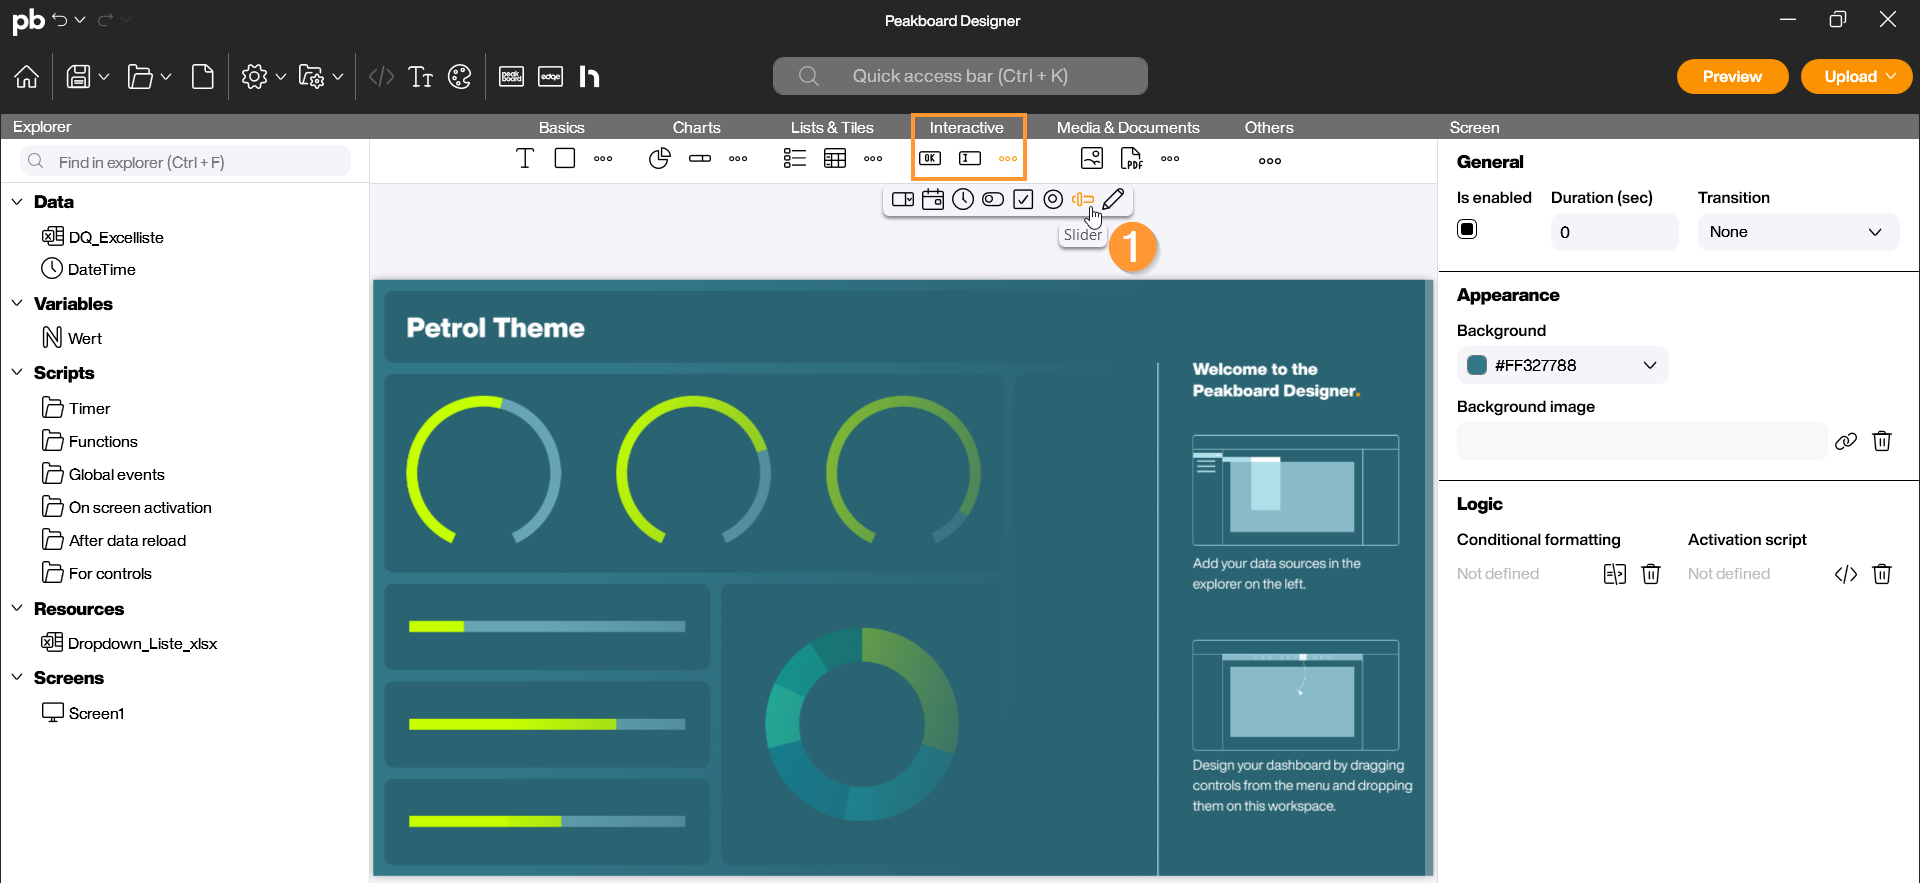
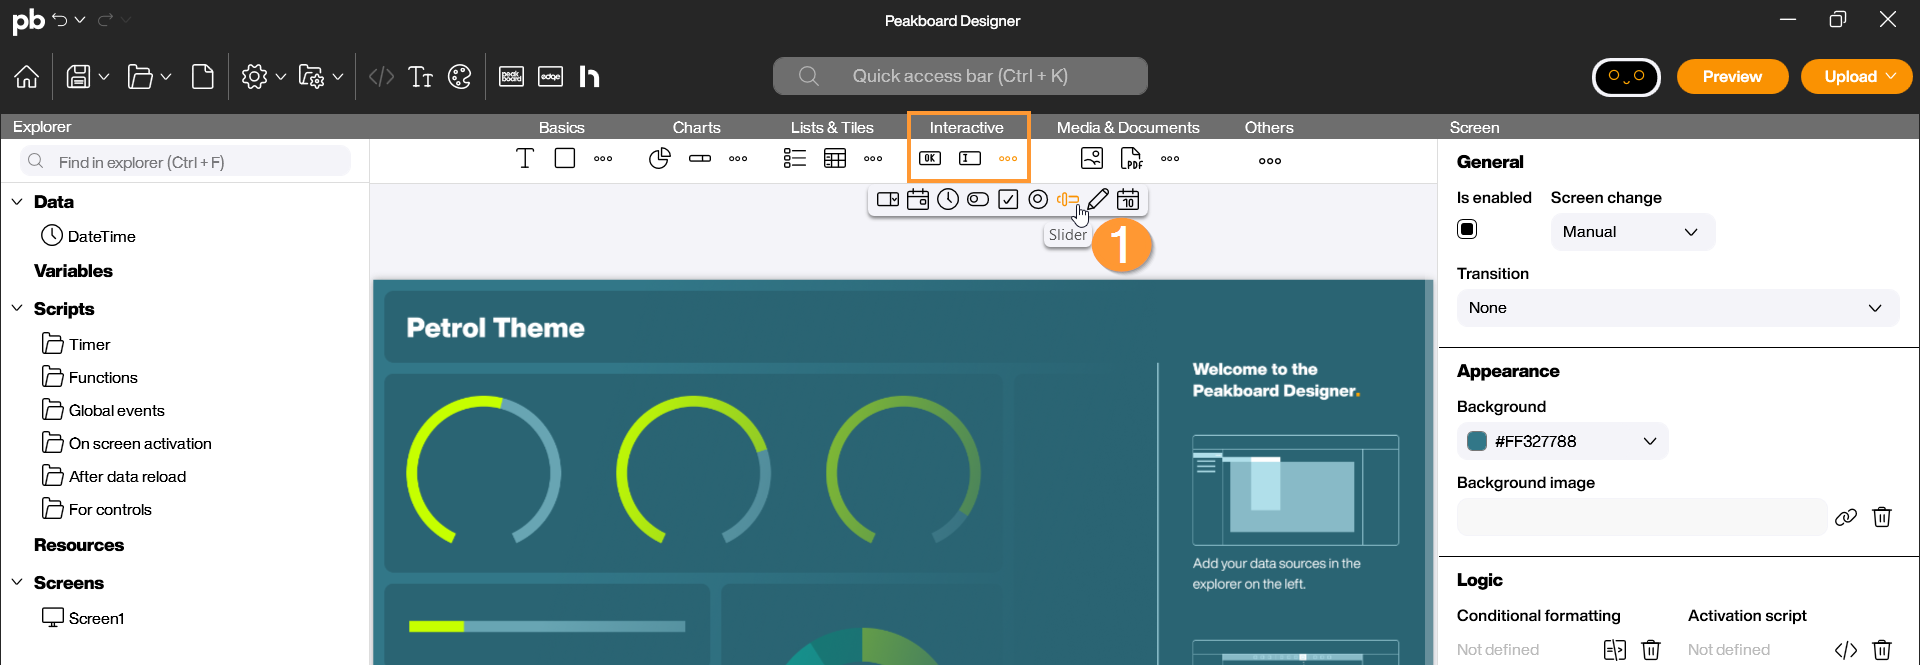
de/en general content updates for input controls

diff --git a/content/_controls/Input/de-slider.md b/content/_controls/Input/de-slider.md
@@ -21,19 +21,8 @@ Damit der Slider korrekt funktioniert, musst du seinen Arbeitsbereich festlegen.
 * Datenquelle / Variable: Verknüpfe den Slider mit einer Variablen vom Typ Zahl (Number). Jede Bewegung des Reglers schreibt den aktuellen Wert sofort in diese Variable zurück (1)
 * Initialer Wert: Lege fest, auf welcher Position der Regler beim Start der Visualisierung stehen soll. Diesen Wert stellst Du idealerweise in der verknüpften Variable ein (2)
 * Minimum / Maximum (Daten): Definiere den Start- und Endpunkt der Skala. z. B. 0 bis 10 (3).
-
+* Label (Daten): Vergebe deinem Schieberegler eine individuelle Bezeichnung.
 ![image_2](/assets/images/Controls/Slider/slider02.png)
-
-## 2 Aussehen und Beschriftung
-In den Eigenschaften auf der rechten Seite kannst du das Design und die Haptik des Sliders verfeinern:
-1. Label (Daten): Vergebe deinem Schieberegler eine individuelle Bezeichnung (1)
-2. Schriftart & Orientierung (Aussehen): Wähle die Schriftart der Bezeichnung und zwischen einer horizontalen oder vertikalen Ausrichtung des Reglers (2).
-3. Wert-Position & Wert-Schriftart (Wert): Verdeutliche den eingestellten Wert des Reglers in deiner Anzeige und bearbeite die Schriftart des angegebenen Wertes (3).
-4. Schieber & Balken (Aussehen): Passe die Farben und Größe des Regler-Knopfes und der Schiene an dein Dashboard-Design an (4).
-5. Skalendarstellung (Skala): Wähle, ob und in welcher Farbe und Häufigkeit eine gestrichelte Skala an dem Regler dargestellt werden soll (5).
-6. In Skripten verwenden (Logik): Gib dem Control einen eindeutigen Namen, um es später im Scripting identifizieren zu können (6).
-
-![image_3](/assets/images/Controls/Slider/slider03.png)
 
 # Scripting
 Der Slider bietet ein spezifisches Event, um auf Änderungen in Echtzeit zu reagieren:

diff --git a/content/_controls/Input/en-slider.md b/content/_controls/Input/en-slider.md
@@ -21,19 +21,8 @@ For the slider to function correctly, you must define its working range. Click o
 * Data Source / Variable: Link the slider to a variable of type Number. Every movement of the slider immediately writes the current value back to this variable (1).
 * Initial Value: Determine the position of the handle when the visualization starts. Ideally, you should set this value within the linked variable (2).
 * Minimum / Maximum (Data): Define the start and end points of the scale (e.g., 0 to 10) (3).
-
+* Label (Data): Assign an individual label to your slider.
 ![image_2](/assets/images/Controls/Slider/slider02.png)
-
-## 2 Appearance and Labeling
-In the properties on the right side, you can refine the design and feel of the slider:
-1. Label (Data): Assign an individual label to your slider (1).
-2. Font & Orientation (Appearance): Choose the font for the label and select between a horizontal or vertical alignment of the slider (2).
-3. Value Position & Value Font (Value): Display the current value of the slider in your visualization and edit the font of the displayed value (3).
-4. Slider & Bar (Appearance): Adjust the colors and size of the slider handle (thumb) and the track to match your dashboard design (4).
-5. Scale Representation (Scale): Choose whether—and in what color and frequency—a dashed scale should be displayed on the slider (5).
-6. Use in Scripts (Logic): Give the control a unique name to easily identify it later in scripting (6).
-
-![image_3](/assets/images/Controls/Slider/slider03.png)
 
 # Scripting
 The slider offers a specific event to react to changes in real-time:

diff --git a/content/_controls/Input/de-datepicker.md b/content/_controls/Input/de-datepicker.md
@@ -24,22 +24,12 @@ Ein Date Picker benötigt in der Regel einen vordefinierten Startwert und kann o
 
 ![image_2](/assets/images/Controls/Datepicker/datepicker_02.png)
 
-## 2 Aussehen und Steuerung
-In den Eigenschaften auf der rechten Seite kannst du das Verhalten und die optische Darstellung präzise steuern:
-1. Control-Positionierung (Allgemeines): Lege die Ausrichtung des Elements auf der Arbeitsfläche fest. Mit den ersten acht Symbolen kann das Control schnell an Ecken oder Seitenmitten platziert werden, während das neunte Symbol die gesamte verfügbare Fläche füllt. Das letzte Icon zentriert das Element mittig, wobei die Größe vorab über die manuellen Eingabefelder definiert werden kann (1).
-2. Abstand (Allgemeines): Über die Felder Breite, Höhe, Links und Oben kannst du das Eingabefeld präzise positionieren. Darunter definierst du einen inneren Abstand (Padding) für den Text innerhalb des Rahmens (2).
-3. Schriftart (Aussehen): Passe die Schriftgröße und Farbe des Datums an, um eine optimale Lesbarkeit auf dem Display zu gewährleisten (3).
-4. In Skripten verwenden (Logik): Gib dem Control einen eindeutigen Namen (z. B. DatePicker_Control), um das ausgewählte Datum später per Skript abzurufen (4, 4b).
-5. Bedingte Formatierung (Logik): Nutze die bedingte Formatierung, um beispielsweise die Hintergrundfarbe des Controls zu ändern, wenn ein kritisches Datum überschritten wurde (5)
-
-![image_3](/assets/images/Controls/Datepicker/datepicker_03.png)
-
 # Scripting
 Das Date Picker-Control bietet Zugriff auf das ausgewählte Datum, um dieses für Berechnungen oder Änderungen zu nutzen.
 
 ## Beispiel: Ausgewähltes Datum im Log speichern
 In diesem Beispiel nutzen wir das "Textänderung"-Tapped Event des Date Pickers, um bei jeder neuen Auswahl ein Label oder eine Datenquelle zu aktualisieren.
-### Schritte im Script-Editor:
+## Schritte im Script-Editor:
 1. Öffne im Designer den Script-Editor auf der rechten unteren Seite unter "Logik" und "Textänderung". 
 2. Wähle den Blockcode "Wert abrufen" im Bereich des Screens und unter der Bezeichnung, die du dem Control vergeben wurde (hier "DatePicker_Control" und setze ihn auf die Skripteditor-Fläche.
 3. Verknüpfe diesen Wert mit einem anderen Control (z. B. einem Textfeld) oder schreibe ihn in das Log. Wähle dazu unter der Kategorie "Peakboard Box" den Blockcode "Ins Log schreiben", ziehe diesen auf die Arbeitsfläche, lösche den voreingestellten Inhalt und verknüpfe die beiden Blöcke.

diff --git a/content/_controls/Input/de-timepicker.md b/content/_controls/Input/de-timepicker.md
@@ -23,22 +23,12 @@ Ein Time Picker wird in der Regel mit einer Startzeit initialisiert und kann dyn
 
 ![image_2](/assets/images/Controls/Timepicker/timepicker_02.png)
 
-## 2 Aussehen und Steuerung
-In den Eigenschaften auf der rechten Seite kannst du das Verhalten und die optische Darstellung präzise steuern:
-1. Control-Positionierung (Allgemeines): Lege die Ausrichtung des Elements auf der Arbeitsfläche fest. Mit den ersten acht Symbolen kann das Control schnell an Ecken oder Seitenmitten platziert werden, während das neunte Symbol die gesamte verfügbare Fläche füllt. Das letzte Icon zentriert das Element mittig, wobei die Größe vorab über die manuellen Eingabefelder definiert werden kann. (1)
-2. Abstand (Allgemeines): Über die Felder Breite, Höhe, Links und Oben kannst du das Eingabefeld präzise positionieren. Darunter definierst du einen inneren Abstand (Padding) für den Text innerhalb des Rahmens. (2)
-3. Schriftart (Aussehen): Passe die Schriftgröße, Schriftart und Farbe der Zeitanzeige an, um eine optimale Lesbarkeit auf dem Display zu gewährleisten (3).
-4. In Skripten verwenden (Logik): Gib dem Control einen eindeutigen Namen (z. B. TimePicker_Control), um die ausgewählte Zeit später per Skript abzurufen (4, 4b).
-5. Bedingte Formatierung (Logik): Nutze die bedingte Formatierung, um beispielsweise die Hintergrundfarbe des Controls zu ändern, wenn eine bestimmte Uhrzeit erreicht oder überschritten wurde (5).
-
-![image_3](/assets/images/Controls/Timepicker/timepicker_03.png)
-
 # Scripting
 Das Time Picker-Control bietet Zugriff auf die ausgewählte Zeit, um diese für Logik-Operationen oder Datenaktualisierungen zu nutzen.
 
 ## Beispiel: Ausgewählte Zeit im Log ausgeben
 In diesem Beispiel nutzen wir das "TextChanged" Event des Time Pickers, um bei jeder Änderung der Zeit eine Meldung im Log zu erzeugen.
-### Schritte im Script-Editor:
+## Schritte im Script-Editor:
 1. Öffne im Designer den Script-Editor auf der rechten unteren Seite unter Logik und dem Ereignis "TextChanged".
 2. Wähle den Building Block „Wert abrufen“ (value) im Bereich deines Screens unter der Bezeichnung des Controls (z. B. TimePicker_Control) und ziehe ihn in den Editor.
 3. Verknüpfe diesen Wert mit dem Block „Ins Log schreiben“ aus der Kategorie Peakboard Box.

diff --git a/content/_controls/Input/en-datepicker.md b/content/_controls/Input/en-datepicker.md
@@ -24,22 +24,12 @@ A Date Picker usually requires a predefined start value and can optionally be re
 
 ![image_2](/assets/images/Controls/Datepicker/datepicker_02.png)
 
-## 2 Appearance and Control
-In the properties on the right side, you can precisely control the behavior and visual representation:
-1. Control Positioning (General): Define the alignment of the element on the workspace. Use the first eight symbols to quickly place the control at corners or side centers, while the ninth symbol fills the entire available area. The last icon centers the element, where the size can be pre-defined via the manual input fields. (1)
-2. Padding (General): You can precisely position the input field using the Width, Height, Left, and Top fields. Below that, you define an internal spacing (padding) for the text within the frame. (2)
-3. Font (Appearance): Adjust the font size and color of the date to ensure optimal readability on the display (3).
-4. Use in scripts (Logic): Give the control a unique name (e.g., DatePicker_Control) to retrieve the selected date later via script (4, 4b).
-5. Conditional Formatting (Logic): Use conditional formatting to change the background color of the control, for example, if a critical date has been exceeded (5).
-
-![image_3](/assets/images/Controls/Datepicker/datepicker_03.png)
-
 # Scripting
 The Date Picker control provides access to the selected date for use in calculations or changes.
 
 ## Example: Save selected date in a variable
 In this example, we use the "TextChanged" event of the Date Picker to update a label or a data source with every new selection.
-### Steps in the Script Editor:
+## Steps in the Script Editor:
 1. In the Designer, open the script editor on the bottom right under Logic and TextChanged.
 2. Select the "get value" block in the Screen section under the name you assigned to the control (here "DatePicker_Control") and place it on the script editor area.
 3. Link this value to another control (e.g., a text field) or write it to the log. To do this, select the "Write to log" block from the Peakboard Box category, drag it onto the workspace, delete the default content, and link the two blocks.

diff --git a/content/_controls/Input/en-timepicker.md b/content/_controls/Input/en-timepicker.md
@@ -23,22 +23,12 @@ A Time Picker is usually initialized with a start time and can react dynamically
 
 ![image_2](/assets/images/Controls/Timepicker/timepicker_02.png)
 
-## 2 Appearance and Control
-In the properties on the right side, you can precisely control the behavior and visual representation:
-1. Control Positioning (General): Define the alignment of the element on the workspace. Use the first eight symbols to quickly place the control at corners or side centers, while the ninth symbol fills the entire available area. The last icon centers the element, where the size can be pre-defined via the manual input fields. (1)
-2. Padding (General): Use the Width, Height, Left, and Top fields to precisely position the input field. Below that, you define an internal spacing (padding) for the text within the frame. (2)
-3. Font (Appearance): Adjust the font size, font style, and color of the time display to ensure optimal readability on the screen (3).
-4. Use in scripts (Logic): Give the control a unique name (e.g., TimePicker_Control) to retrieve the selected time later via script (4, 4b).
-5. Conditional Formatting (Logic): Use conditional formatting to, for example, change the background color of the control when a certain time is reached or exceeded (5).
-
-![image_3](/assets/images/Controls/Timepicker/timepicker_03.png)
-
 # Scripting
 The Time Picker control provides access to the selected time to use it for logic operations or data updates.
 
 ## Example: Output selected time in the log
 In this example, we use the "TextChanged" event of the Time Picker to generate a message in the log with every change of time.
-### Steps in the Script Editor:
+## Steps in the Script Editor:
 1. In the Designer, open the Script Editor on the bottom right under Logic and the "TextChanged" event.
 2. Select the "get value" building block (value) in the area of your screen under the name of the control (e.g., TimePicker_Control) and drag it into the editor.
 3. Link this value to the "Write to log" block from the Peakboard Box category.

diff --git a/content/_controls/Input/de-dropdown.md b/content/_controls/Input/de-dropdown.md
@@ -29,15 +29,7 @@ In der gewählten Beispieldatei wird nun die erste Zeile der gewählten Spalte d
 
 ![image4](/assets/images/Controls/Dropdown/dropdown04.png)
 
-## 2 Aussehen und Interaktion
-In den Eigenschaften auf der rechten Seite kannst du das Verhalten und Design verfeinern:
-1. Text, Hintergrund & Kontur (Aussehen): Passe das Design des Inhalts und der Dropdown-Box an (1)
-2. In Skripten verwenden (Logik): Gib dem Control einen eindeutigen Namen, um es später im Scripting einfach identifizieren zu können (2)
-3. Selection Changed: Dieses Skript wird immer dann ausgeführt, wenn der Nutzer einen neuen Eintrag auswählt (3).
-
-Die Dropdown-Liste reagiert primär auf eine Änderung der Auswahl. Hast Du dem Control einen eindeutigen Namen zur Verwendung in Skripten gegeben, so kannst Du es im Skript-Editor nutzen. In den Eigenschaften findest du unter Logik das "Selection-Changed" Event.
-
-![image5](/assets/images/Controls/Dropdown/dropdown05.png)
+Die Dropdown-Liste reagiert primär auf eine Änderung der Auswahl. Hast Du dem Control einen eindeutigen Namen zur Verwendung in Skripten gegeben, so kannst Du es im Skript-Editor nutzen. In den Eigenschaften findest du unter Logik das “Selection-Changed” Event.
 
 # Scripting
 ## Beispiel: Gewählten Wert im Log ausgeben

diff --git a/content/_controls/Input/en-dropdown.md b/content/_controls/Input/en-dropdown.md
@@ -30,14 +30,7 @@ In the chosen example file, the first row of the selected column is now displaye
 
 ![image4](/assets/images/Controls/Dropdown/dropdown04.png)
 
-## 2 Appearance and Interaction
-In the properties on the right side, you can refine the behavior and design:
-1. Text, Background & Outline (Appearance): Customize the design of the content and the dropdown box (1).
-2. Use in scripts (Logic): Give the control a unique name to easily identify it later in scripting (2).
-3. Selection Changed: This script is executed whenever the user selects a new entry (3).
-
 The Dropdown List primarily reacts to a change in selection. Once you have given the control a unique name for use in scripts, you can utilize it in the script editor. Under the Logic tab in the properties, you will find the event:
-![image5](/assets/images/Controls/Dropdown/dropdown05.png)
 
 # Scripting
 ## Example: Output selected value in the log